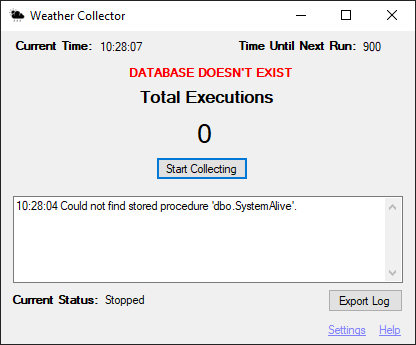
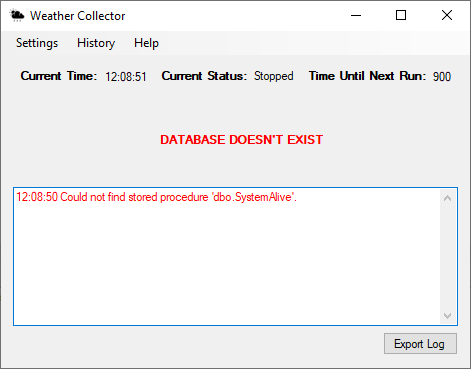
Readme Update
Readme updated to include up to date screenshots.

diff --git a/README.md b/README.md
@@ -23,6 +23,10 @@ Weather Collector is a Windows Forms application written in C# that makes use of
 <img src="assets\main-screen.png">
 </p>
 
+# History Screen
+<p align="center">
+<img src="assets\history-screen.png">
+</p>
 
 # Settings Screen
 <p align="center">
